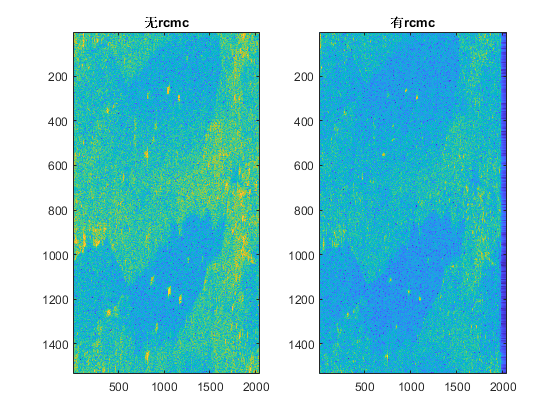
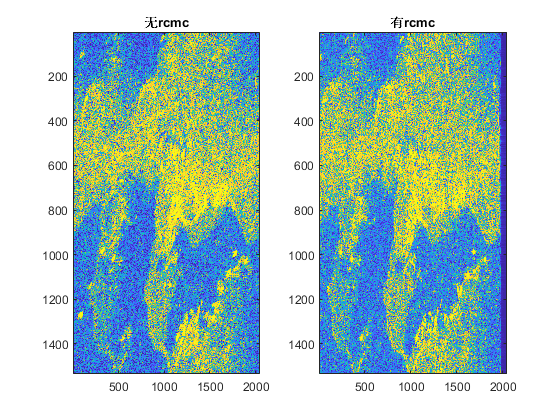
update today blog

diff --git a/_posts/2024-09-15-RDA_sim.md b/_posts/2024-09-15-RDA_sim.md
@@ -1,13 +1,13 @@
 ---
 layout: post
-title: radar_sys_sim1
+title: RDA_sim
 ---
 
 [数据集 RADARSAT1](https://github.com/wugfh/sar/tree/main/data/RadarSAT%E6%95%B0%E6%8D%AE/RadarSAT%E6%95%B0%E6%8D%AE) 
 
 ## RDA 成像算法仿真
 
-### 小斜视角，第一次仿真
+### 小斜视角，抛物线模型
 
 #### 参数与初始化
 ```matlab
@@ -113,10 +113,18 @@ for j = 1:Na
 end
 
 ```
-同时减小对比度，方便观察
+同时减小对比度，并进行直方图增强，方便观察
 ```matlab
-data_ca = 20*log(abs(data_ca)+1);
-data_ca_rcmc = 20*log(abs(data_ca_rcmc)+1);
+data_ca_rcmc = abs(data_ca_rcmc)/max(max(abs(data_ca_rcmc)));
+data_ca = abs(data_ca)/max(max(abs(data_ca)));
+data_ca = 20*log(abs(data_ca));
+data_ca_rcmc = 20*log(abs(data_ca_rcmc));
 ```
 
 ![第4次仿真效果](/assets/sar_sim3_4.png)  
+
+fftshift将图像中心更改，删去fftshift。subplot对图像进行了形变，rcmc后的图像单独成像，最终结果为
+
+![第5次仿真效果](/assets/sar_sim3_5.png)  
+
+最终效果不太好。存在斑点噪声等问题。
